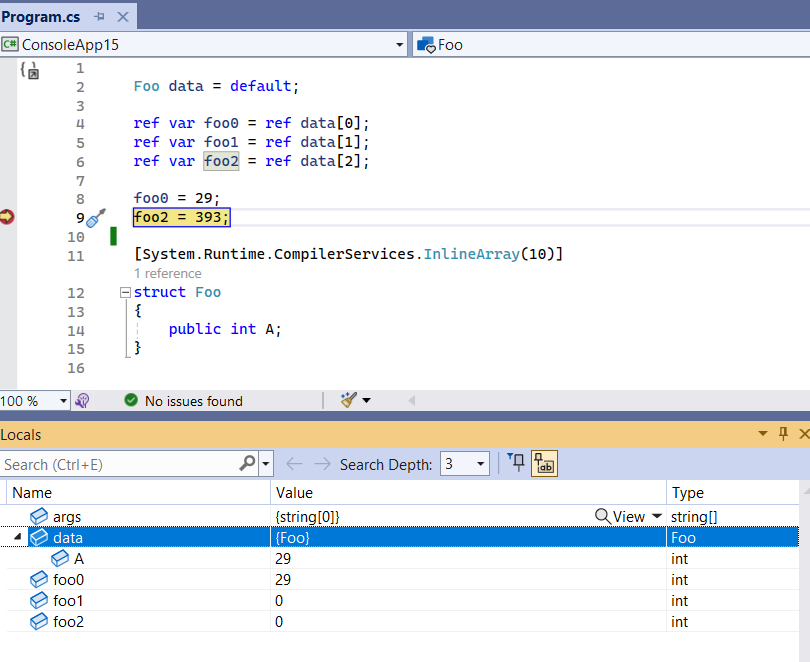
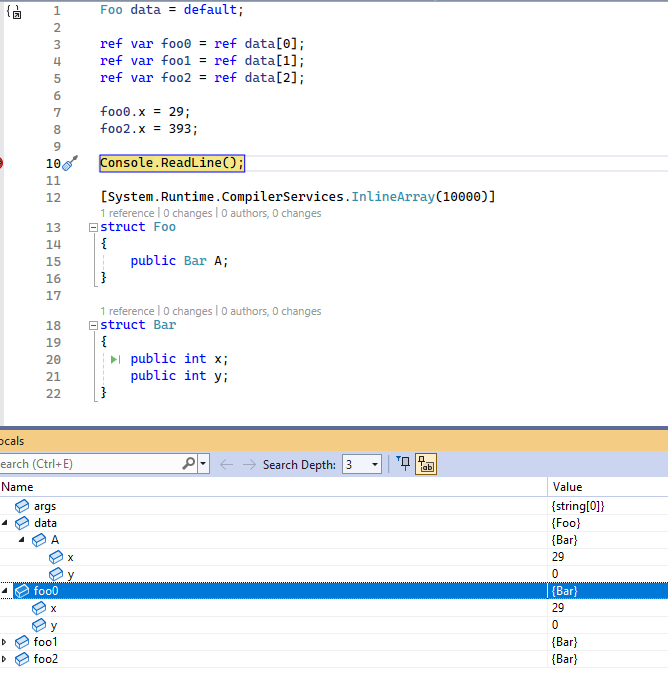
Tidy

Changed region(s): [[0.0, 0.0, 1.0, 0.997]]

diff --git a/SomeC#Features/inlinearrays/Program.cs b/SomeC#Features/inlinearrays/Program.cs
@@ -12,5 +12,5 @@ Console.ReadLine();
 [System.Runtime.CompilerServices.InlineArray(10000)]
 struct Foo
 {
-    public int A;
+    public object A;
 }

diff --git a/SomeC#Features/README.md b/SomeC#Features/README.md
@@ -20,7 +20,7 @@ title: "This is the list of features we will cover"
 
 ### What we are doing today
 
-- We'll go through the C# changes in reverse chronological order
+- C# changes in reverse chronological order
   - Talk about the feature
   - Any questions?
   - Any discussion on usefulness and whether we should use it in the code base
@@ -85,13 +85,16 @@ title: "This is the list of features we will cover"
 
 ### [Inline Arrays](https://github.com/dotnet/csharplang/blob/main/proposals/csharp-12.0/inline-arrays.md)
 
-- Tracked references on the stack
 - Stack allocation (a common theme)
 - Don't make them too big (runtime exits)
 
 ---
 
 ![Sample example](images/inline-arrays.png)
+
+---
+
+![Sample example](images/inline-arrays2.png)
 
 ---
 
